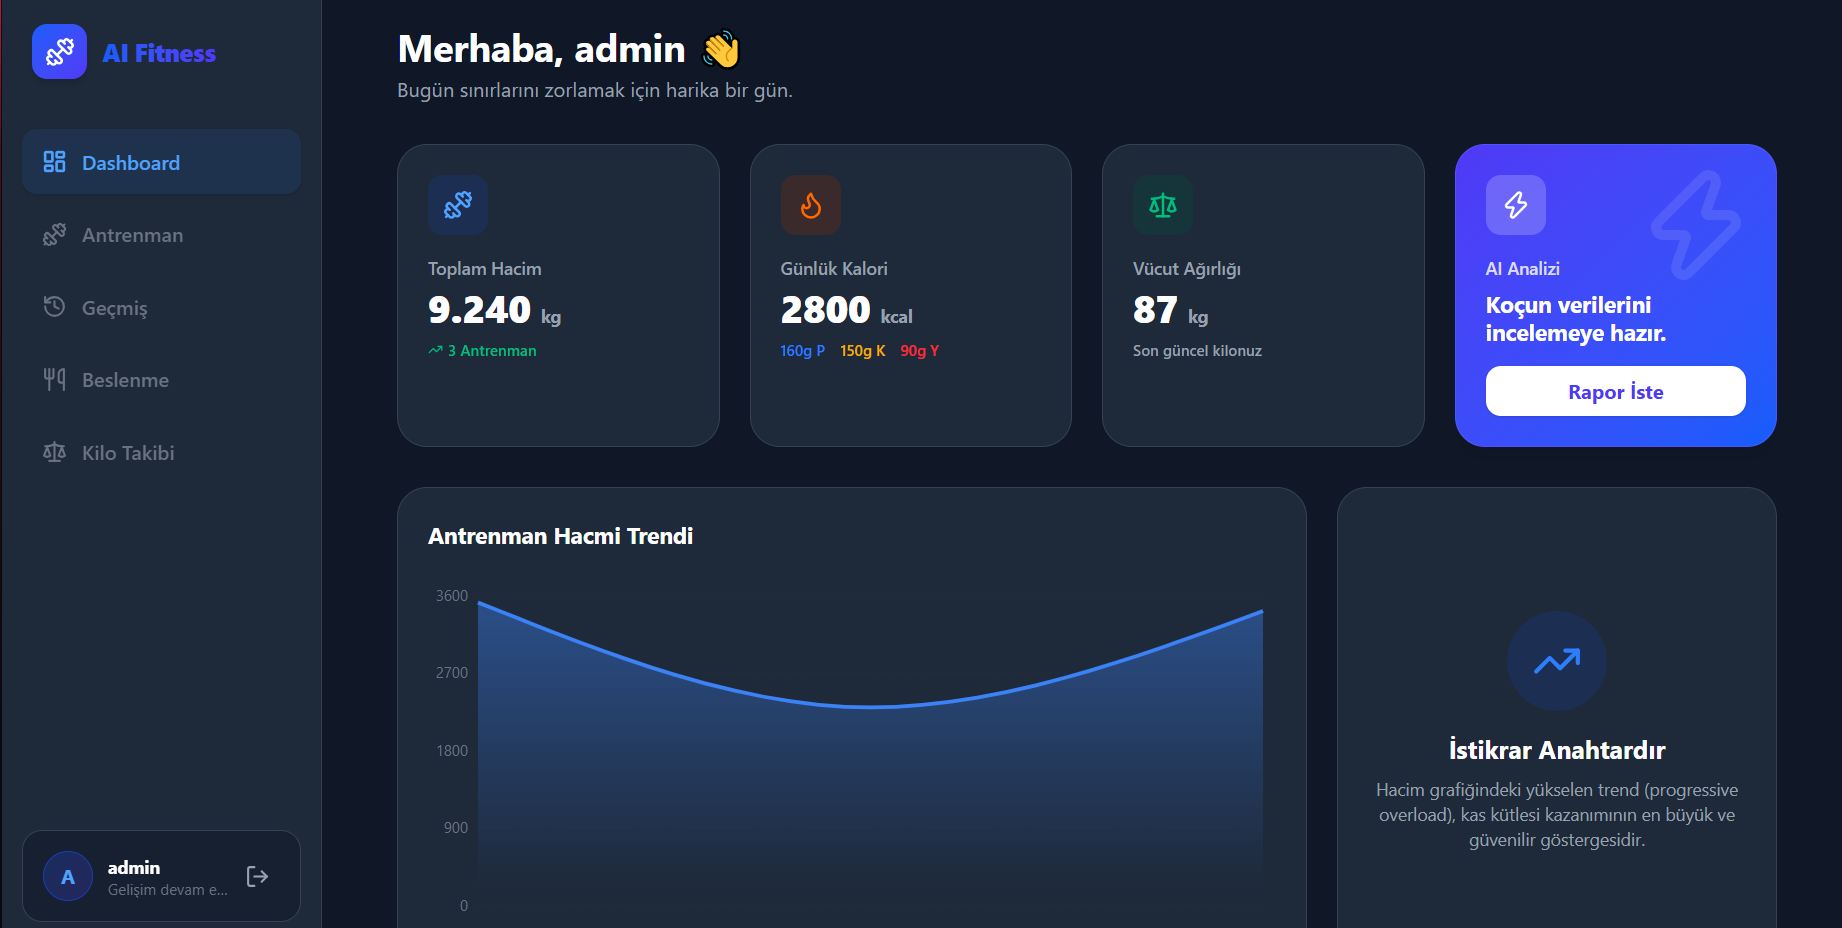
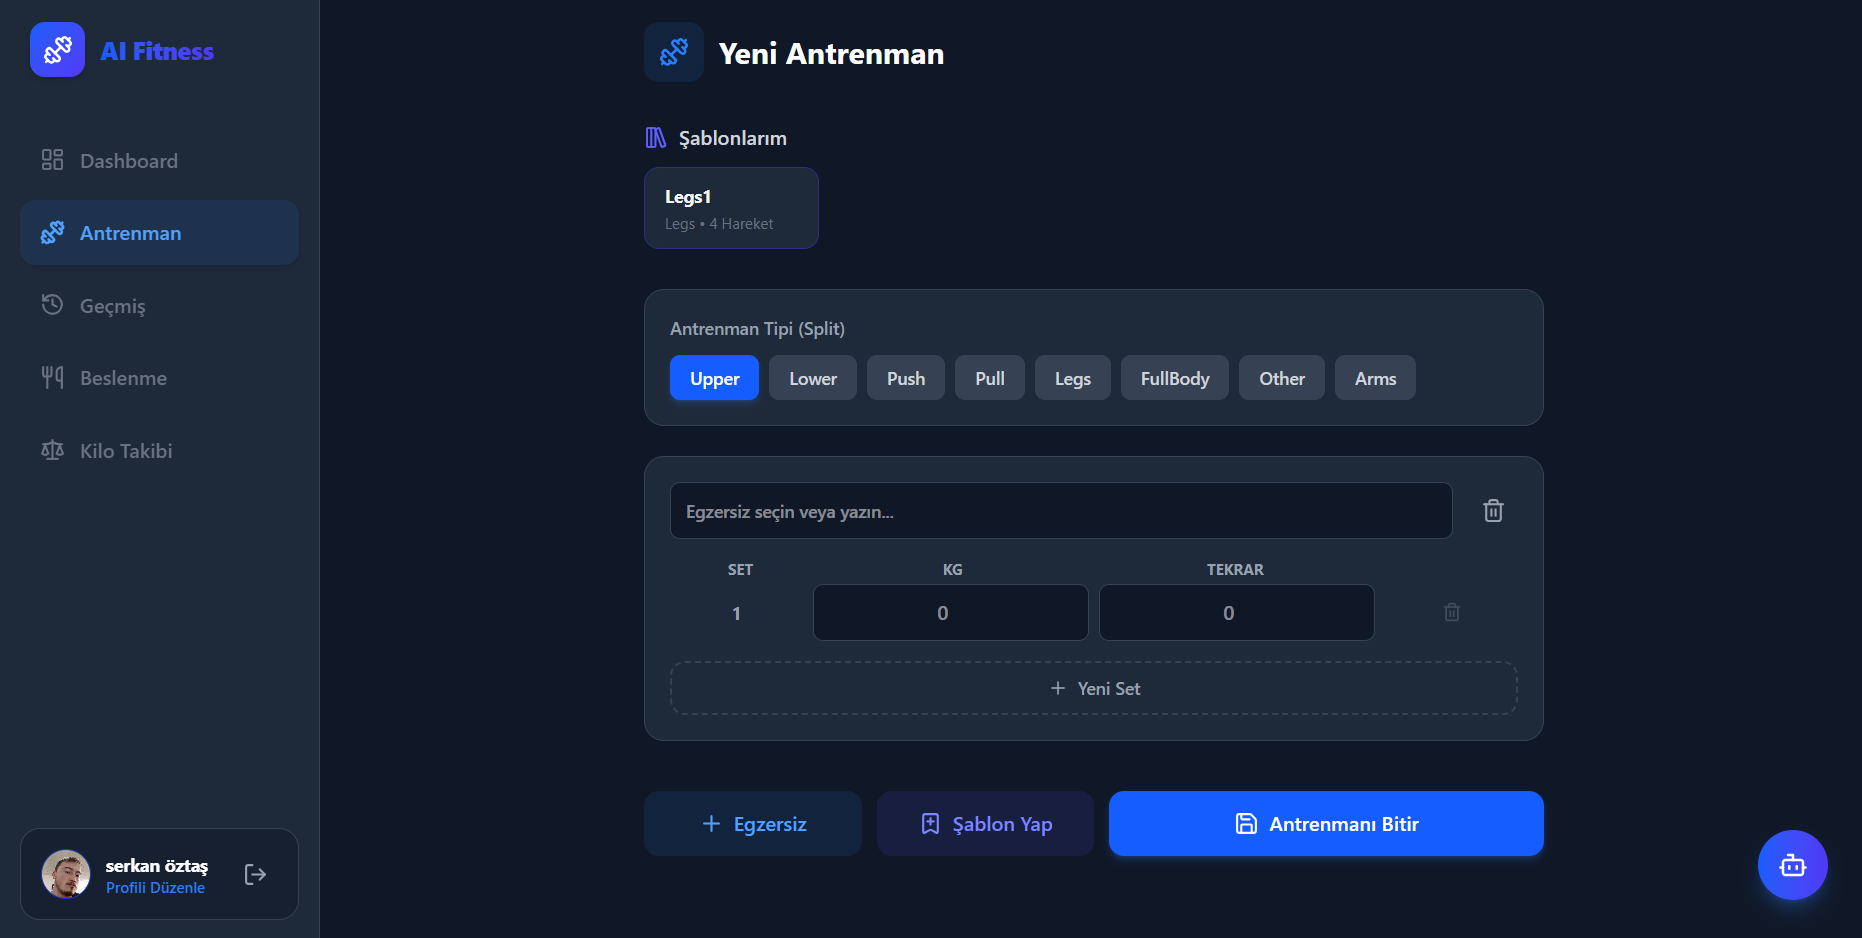
docs: add AI Macro Calculator and routine system details to README

diff --git a/README.md b/README.md
@@ -9,7 +9,7 @@ Kişisel antrenman hacminizi (progressive overload), günlük makro/kalori tüke
 
 ## 📸 Ekran Görüntüleri
 
-*(Projenin arayüzüne ait görseller)*
+_(Projenin arayüzüne ait görseller)_
 
 <div align="center">
   <img src="screenshots/aifitness3.png" alt="Dashboard Görünümü" width="400" />
@@ -19,23 +19,27 @@ Kişisel antrenman hacminizi (progressive overload), günlük makro/kalori tüke
   <img src="screenshots/aifitness5.png" alt="Beslenme Takibi" width="400" />
   <br/>
   <img src="screenshots/aifitness6.png" alt="Kilo Takibi" width="400" />
+  <img src="screenshots/aifitness10.png" alt="Profil Düzenleme" width="400" />
 </div>
 
 ## ✨ Özellikler
 
-- **🤖 Yapay Zeka Koçu:** Son antrenmanlarınızı ve beslenmenizi analiz ederek kas gelişimi, progressive overload ve toparlanma hakkında Gemini AI destekli özel raporlar sunar (Aynı bölge antrenmanlarını kıyaslama mantığıyla çalışır).
-- **📊 Gelişmiş Dashboard:** Recharts entegrasyonu ile antrenman hacmi (volume) trendlerinizi grafiksel olarak izleyin.
+- **🤖 Yapay Zeka Koçu:** Son antrenmanlarınızı ve beslenmenizi analiz ederek kas gelişimi, progressive overload ve toparlanma hakkında Gemini AI destekli özel raporlar sunar.
+- **🧮 AI Makro Asistanı (Hesaplayıcı):** Mevcut vücut verilerinize ve fitness hedeflerinize göre günlük almanız gereken ideal kalori ve makro (protein, karbonhidrat, yağ) değerlerini akıllıca hesaplar.
+- **📊 Gelişmiş Dashboard:** Recharts entegrasyonu ile antrenman hacmi (volume) trendlerinizi grafiksel olarak izleyin ve dinamik motivasyon mesajları alın.
+- **🔄 Antrenman Şablonları (Rutinler):** Sık yaptığınız antrenman programlarını şablon olarak kaydedin ve tek tıkla yeni antrenman formuna otomatik yükleyin.
 - **🥩 Beslenme ve Makro Takibi:** Günlük kalori, protein, karbonhidrat ve yağ alımlarınızı kaydedin ve görselleştirin.
-- **🏋♂ Antrenman Günlüğü:** Egzersizleri, setleri, tekrarları ve ağırlıkları kaydedin. Kişisel rekorlarınızı (PR) takip edin.
+- **🏋♂ Antrenman Günlüğü:** Egzersizleri, setleri, tekrarları ve ağırlıkları kaydedin. Form üzerinde yerel (localStorage) taslak kaydetme ile veri kaybını önleyin.
+- **👤 Profil Özelleştirme:** Kullanıcı adınızı ve profil fotoğrafınızı (Base64 ile veritabanına) kaydedin, NextAuth entegrasyonu ile arayüzde anında güncelleyin.
 - **🔐 Güvenli Altyapı:** NextAuth ile kullanıcı doğrulama ve veritabanında (MongoDB) kullanıcıya özel izole veri yönetimi.
 
 ## 🛠 Kullanılan Teknolojiler
 
-- **Frontend:** Next.js (App Router), React, Tailwind CSS, Recharts, Lucide Icons
+- **Frontend:** Next.js 14+ (App Router), React, Tailwind CSS, Recharts, Lucide Icons
 - **Backend:** Next.js API Routes, Node.js
 - **Veritabanı:** MongoDB (Mongoose)
-- **Yapay Zeka:** Google Generative AI (Gemini 3.5 / 2.5 Flash Lite)
-- **Kimlik Doğrulama:** NextAuth.js (Bcrypt şifreleme)
+- **State Yönetimi & Optimizasyon:** NextAuth Session, LocalStorage API, Hydration Safe Rendering
+- **Yapay Zeka:** Google Generative AI (Gemini API)
 
 ## 🚀 Kurulum (Local Development)
 
@@ -68,4 +72,5 @@ npm run dev
 Tarayıcınızda [http://localhost:3000](http://localhost:3000) adresine giderek uygulamayı görüntüleyebilirsiniz.
 
 ## 🌍 Canlı Yayın (Deploy)
+
 Bu proje [Vercel](https://vercel.com/) üzerinde yayına alınmak üzere optimize edilmiştir. Vercel paneli üzerinden GitHub reponuzu bağlayıp ortam değişkenlerini (Environment Variables) girerek tek tıkla yayına alabilirsiniz.
